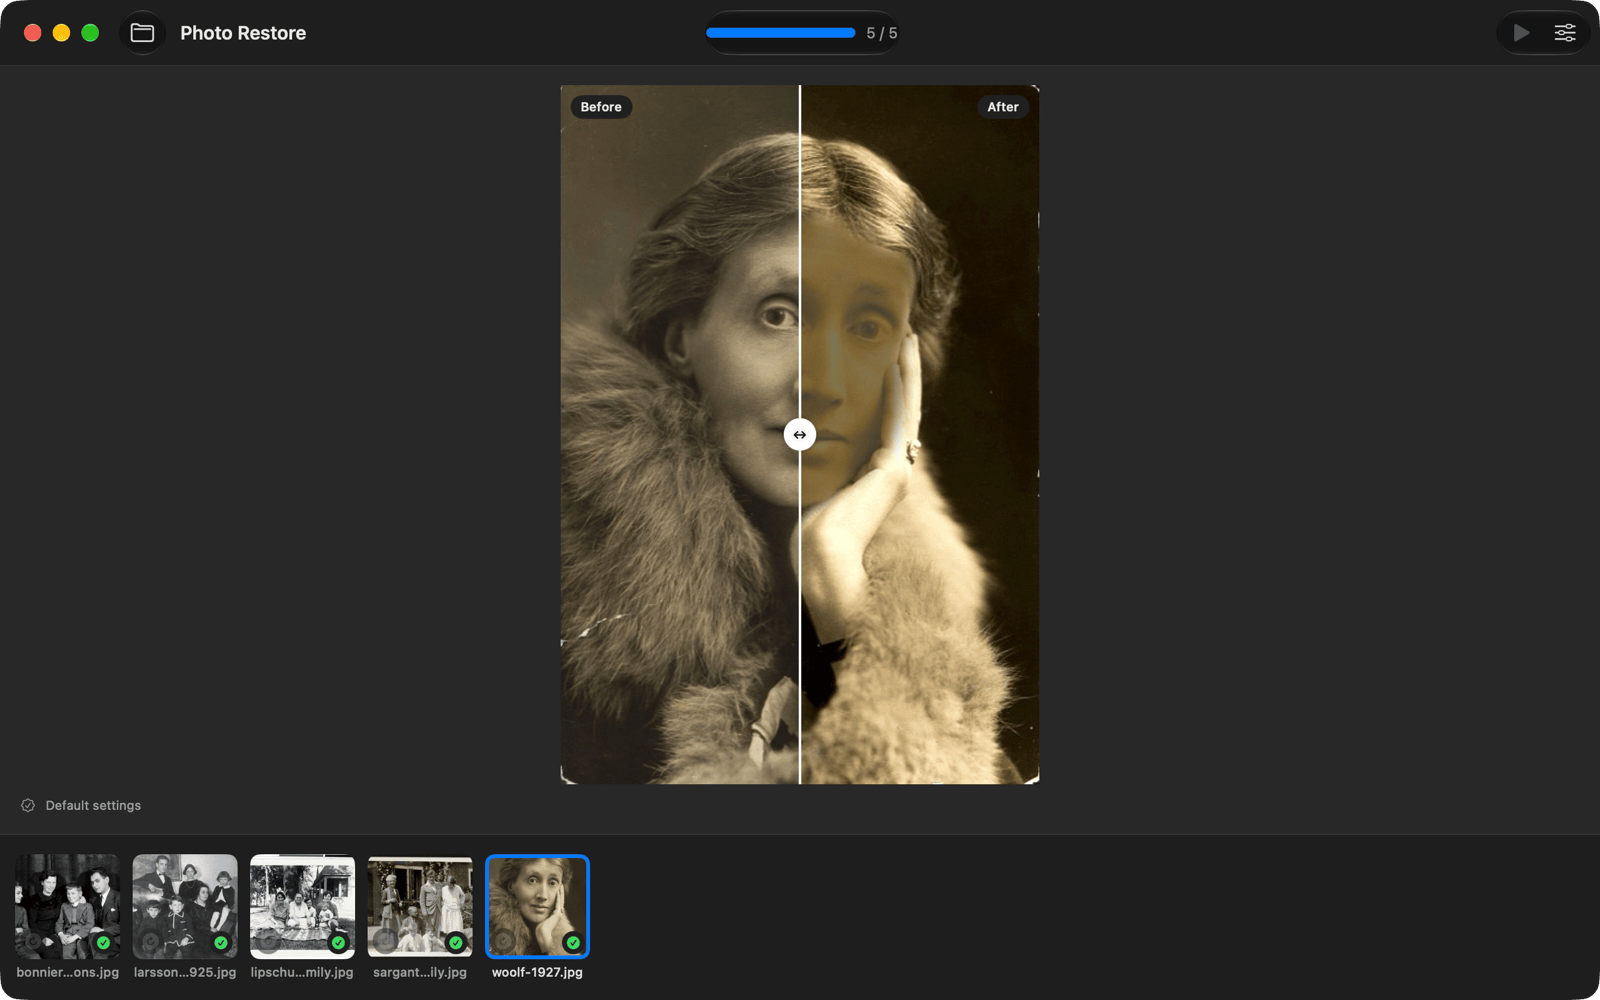
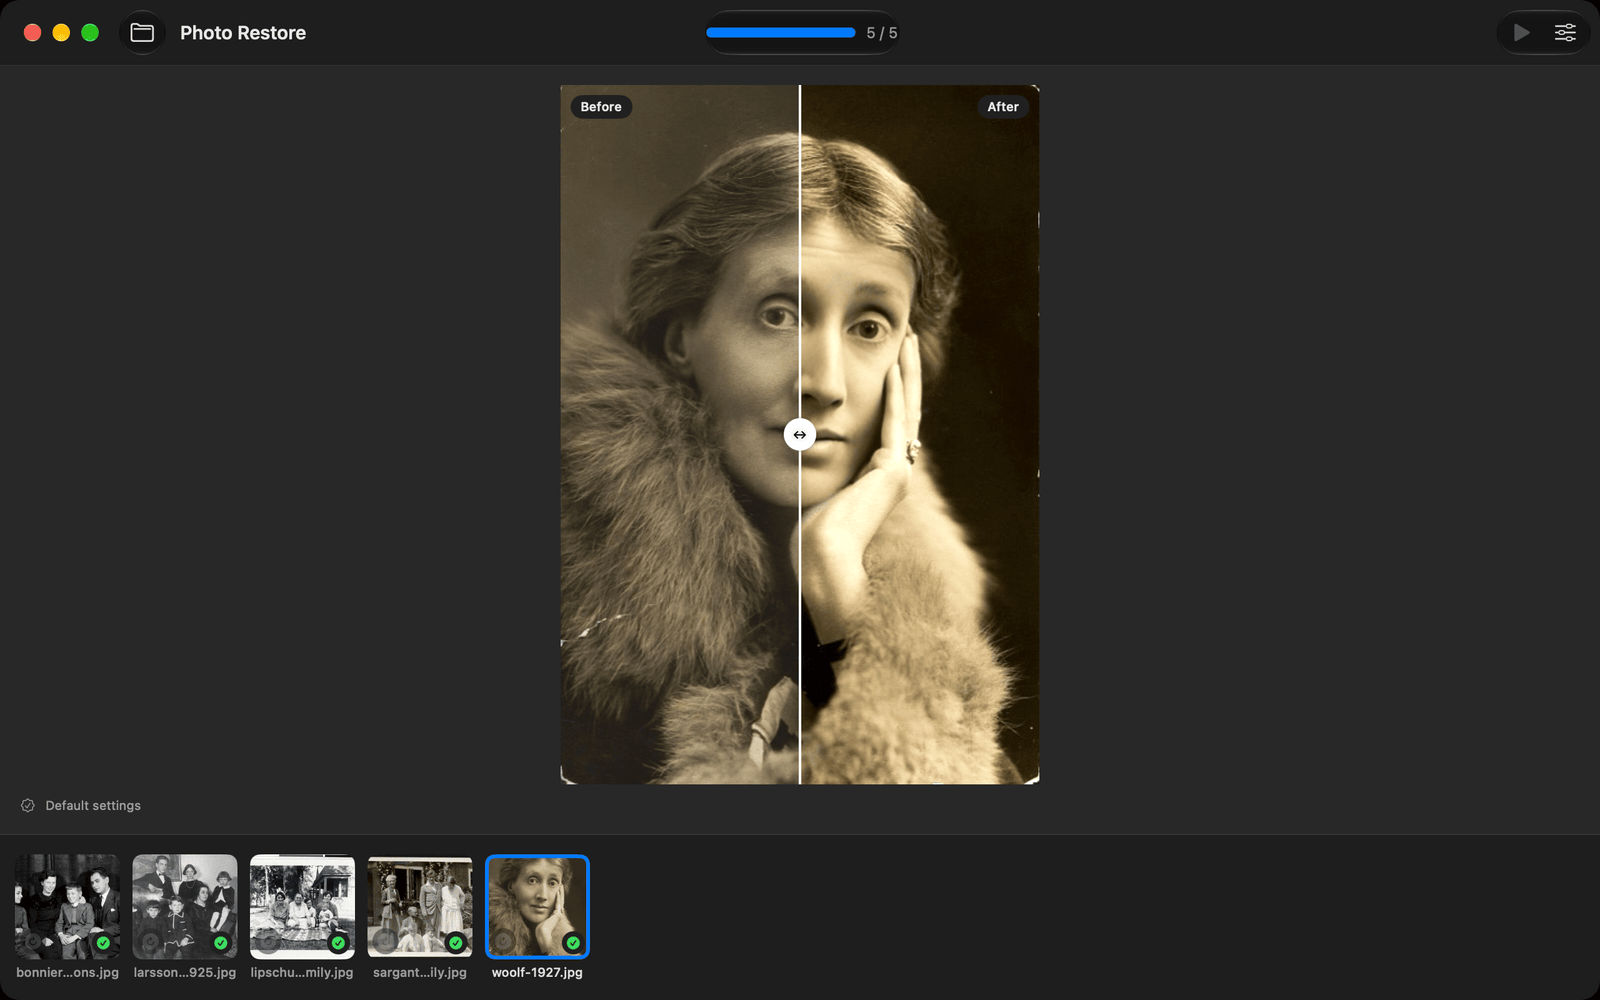
docs: show face restoration working in the screenshots (#11)
The "small faces" limitation was the GFPGAN Neural Engine bug, fixed in #8 and #9. Retake
the screenshots with the shipped model and face restoration on, replace the faces-off group
shot, and remove the limitation from the README and the landing page.

Claude-Session: https://claude.ai/code/session_01S7cynZx99CgV1aD5SHSfuq

diff --git a/site/index.html b/site/index.html
@@ -157,11 +157,6 @@
       box-shadow: 0 1px 0 var(--rule), 0 12px 30px -20px rgba(20, 30, 28, .5);
     }
     .shots figcaption { margin-top: .75rem; font-size: .95rem; color: var(--ink-soft); max-width: 44rem; }
-    .note {
-      max-width: 44rem; margin: 2.25rem 0 0; padding: 1rem 1.25rem;
-      border-left: 3px solid var(--accent); background: var(--mat-deep);
-    }
-    .note p { margin: 0; }
     .credits { margin: 1.25rem 0 0; font-size: .85rem; color: var(--ink-soft); max-width: 44rem; }
 
     footer { border-top: 1px solid var(--rule); padding: 2rem 0 3rem; font-size: .9rem; color: var(--ink-soft); }
@@ -209,8 +204,7 @@
           <figure class="wide">
             <img src="screenshots/restore-portrait.png" width="1600" height="1000"
               alt="Photo Restore showing a 1927 sepia portrait, split by a slider into the original on the left and the restored version on the right.">
-            <figcaption>Drag the slider to compare the original scan with the restored photo.
-              Faces that fill a good part of the frame get the full face restoration.</figcaption>
+            <figcaption>Drag the slider to compare the original scan with the restored photo.</figcaption>
           </figure>
           <figure>
             <img src="screenshots/batch-settings.png" width="1600" height="1000" loading="lazy"
@@ -218,17 +212,10 @@
             <figcaption>Queue a folder, then pick the output size and face settings before you start.</figcaption>
           </figure>
           <figure>
-            <img src="screenshots/restore-group-faces-off.png" width="1600" height="1000" loading="lazy"
-              alt="A 1925 family group portrait, original on the left and restored on the right, with face restoration switched off.">
-            <figcaption>A group photo restored with face restoration off: contrast and detail, no
-              face changes.</figcaption>
+            <img src="screenshots/restore-group.png" width="1600" height="1000" loading="lazy"
+              alt="A 1925 family portrait of eight people, original on the left and restored on the right, with every face restored.">
+            <figcaption>Group photos work too: every face is found and restored on its own.</figcaption>
           </figure>
-        </div>
-        <div class="note">
-          <p><strong>Known limitation: small faces.</strong> Face restoration currently struggles
-            with small faces, such as everyone in a group photo, and can leave them flat, gray and
-            featureless. For group shots, switch <strong>Restore faces</strong> off in the settings
-            panel. You still get the contrast fix and upscaling.</p>
         </div>
         <p class="credits">Sample photos are public domain or have no known copyright restrictions,
           via <a href="https://commons.wikimedia.org/">Wikimedia Commons</a>: Virginia Woolf (1927),
@@ -342,8 +329,6 @@
               the intensity slider to keep more of the original texture, turn on "Skip already-sharp
               faces", or switch face restoration off entirely. The before/after slider makes it easy
               to check each result.</p>
-            <p>Small faces, like those in a group photo, don't restore well yet and can come out flat
-              and gray. Switch face restoration off for those photos.</p>
           </div>
         </details>
 

diff --git a/README.md b/README.md
@@ -20,15 +20,9 @@ the same models converted to Core ML.
 
 ## Screenshots
 
-| Queue a folder, adjust settings | Restore without face enhancement |
+| Queue a folder, adjust settings | Group photos too |
 | --- | --- |
-| ![Five photos queued in the filmstrip with the settings inspector open](site/screenshots/batch-settings.png) | ![Before/after of a 1925 family portrait restored with face restoration turned off](site/screenshots/restore-group-faces-off.png) |
-
-> **Known limitation: small faces.** Face restoration works well on faces that fill a good part of
-> the frame, like the portrait above. On small faces, such as a group photo with several people,
-> it currently produces flat, gray, featureless faces. For group shots, turn **Restore faces** off
-> in the settings panel (as in the right-hand screenshot): you still get the contrast fix and
-> upscaling. Always check the before/after slider.
+| ![Five photos queued in the filmstrip with the settings inspector open](site/screenshots/batch-settings.png) | ![Before/after of a 1925 family portrait of eight people, with every face restored](site/screenshots/restore-group.png) |
 
 Sample photos are public domain or have no known copyright restrictions, via Wikimedia Commons:
 Virginia Woolf (1927), the Yngve Larsson family (1925), Tor Bonnier's sons (Jan de Meyere), the
